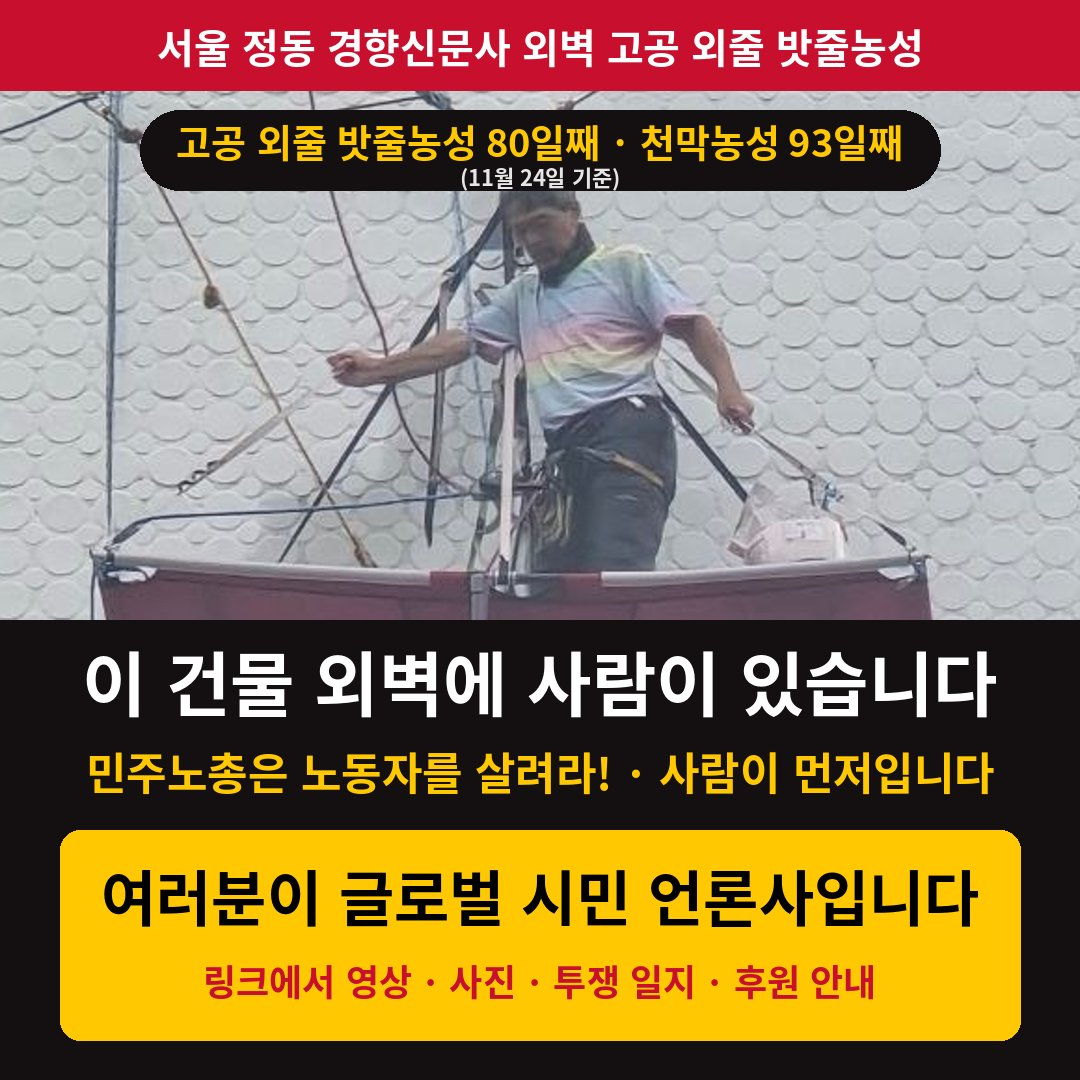
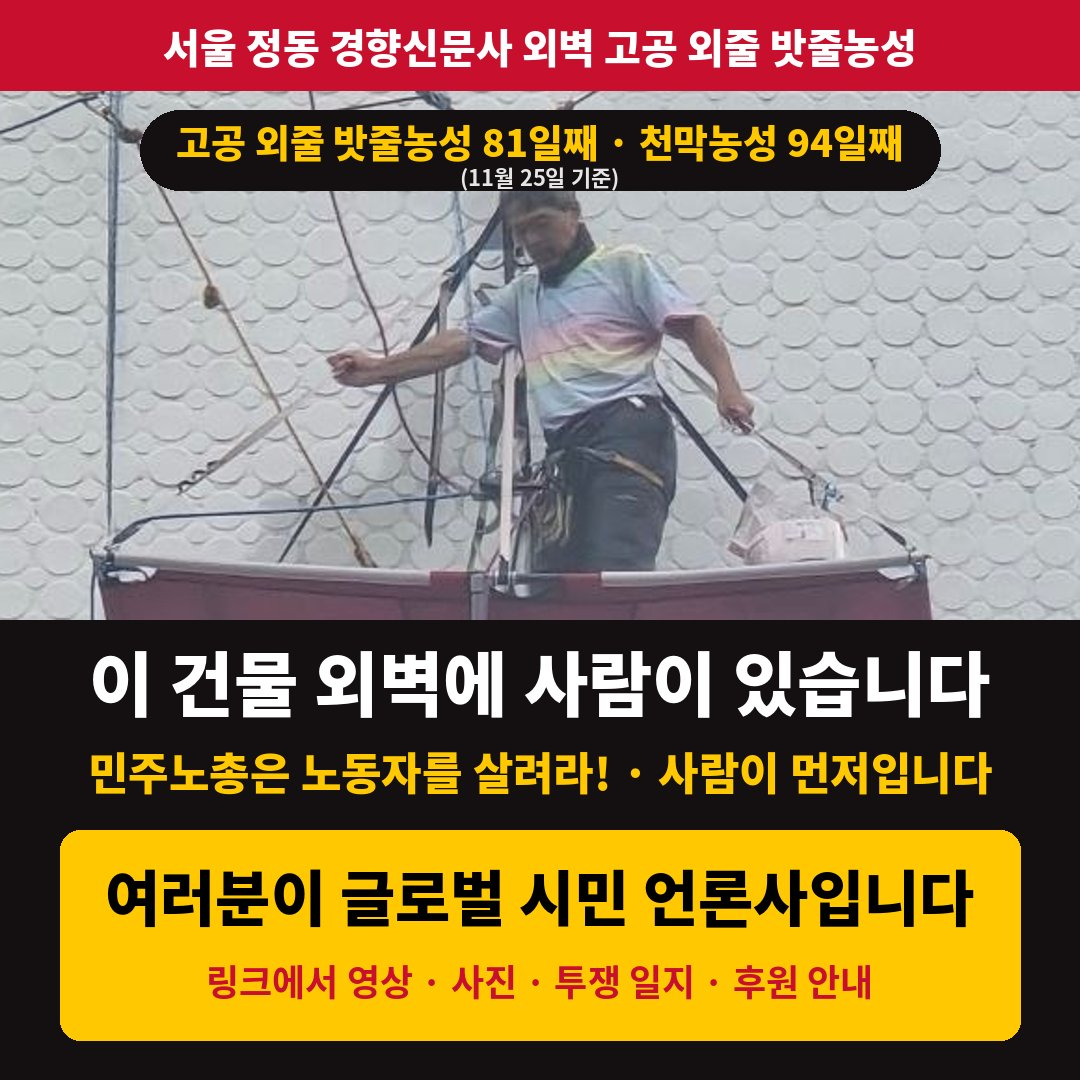
11.24 투쟁 일지 추가(시계탑 선전전·함계남 동지 글), 헤드라인·썸네일, 최종 업데이트 11.25 00:40
Claude-Session: https://claude.ai/code/session_01Tz8GkWFDL8twrCLq71htRW

diff --git a/index.html b/index.html
@@ -2,15 +2,15 @@
 <html lang="ko"><head><meta charset="utf-8">
 <title>이 건물 외벽에 사람이 있습니다 | 정동 고공 외줄 밧줄농성</title>
 <meta name="viewport" content="width=device-width,initial-scale=1,viewport-fit=cover">
-<meta name="description" content="[11.24 소식] (11.23) 오전 8시 서울고용노동청 앞 이ㅇㅇ 님 투쟁 연대 / 오후 2시 서울대병원 후문 긴급 기자회견 ‘노동조합 상근자는 노동자다. 근로기준법 적용하라!’(유상석, 이ㅇㅇ, 전태삼, 김ㅇㅇ, 김ㅇㅇ, 함계남, 이ㅇㅇ, 고ㅇㅇ, 박ㅇㅇ, 송ㅇㅇ): ‘사용자’ 민주노총 공공운수노조 의료연대본부 서울지부를 규탄하고 ‘비영리 5인 미만 사업장에 근로기준법을 당장 적용하라’고 요구했습니다. 이어 서울대병원 지하 1층 서울지부 사무실을 항의 방문했습니다. 인천 계양구 동지들이 기증한 투쟁 물품을 오늘 모두 썼습니다 / 보도: 법률닷컴, 국제뉴스, 울산함성 / 민주노총 비대위 홍ㅇㅇ 집행위원장의 요청으로 함계남 동지가 개별 면담을 했습니다. 함계남 동지는 노동조합이 마지막으로 제시한 ‘후속 조치는 결과에 따라 별도 논의한다’만으로는 받아들일 수 없다고 밝혔습니다. 그리고 합의사항 2 ‘총연맹은 산하·가맹조직에서 일하는 노동자들이 사업장 상시근로자 수와 관계없이 근로기준법에 준하는 보호를 받을 수 있도록 관련 규약·규정의 정비를 추진한다’를 당장 하라는 것도 아닌데 왜 받지 못하느냐고 물었습니다. 민주노총이 채용한 것이 아니라는 말에는 ‘민주노총 공공운수노조 의료연대본부 서울지부’로서 조합비가 총연맹까지 이어지는 구조라며, 그렇지 않다면 왜 민주노총이라고 하느냐고 되물었습니다. 공공운수노조가 받지 않는다는 말에는 이것이 민주노총의 사업이자 원칙인 만큼 잘 고민해 달라고 하고 면담을 마쳤습니다 / 어느 것 하나 녹록지 않지만, 꼭 넉넉하다고 잘되는 것은 아닙니다. 오늘도 서로에게 힘이 되어 주신 동지들께 감사드립니다. 푹 주무십시오. — 11월 23일 천막농성장에서 / 특종: 집단사직 종용 녹취록 공개 · 여러분이 글로벌 시민 언론사입니다">
+<meta name="description" content="[11.25 소식] (11.24) 오전 8시 서울고용노동청 앞 이ㅇㅇ 님 투쟁 연대 / 오후 2시 30분~5시 서울대병원 본원 시계탑 앞 ‘노사협의회’ 선전전(김ㅇㅇ, 전태삼, 김ㅇㅇ, 함계남): 그늘지고 바람이 센 시계탑 앞에서 발을 동동 구르며 몇 시간 동안 민주노총 의료연대본부 서울지부의 부당해고를 기자회견 형식으로 끝까지 알렸습니다. 유튜버에 행동요원 역할까지 해 주신 김ㅇㅇ 동지 덕분에 든든했습니다 / 함계남 동지의 글: “저는 4년 동안 민주노총 공공운수노조 의료연대본부 서울지부에서 급여를 받고 일하는 노동자였습니다. 세 가지 산재를 인정받았고, 5인 미만으로 떠밀려 표적 해고를 당했습니다. 그리고 배우자 양규서는 상급기관의 국장으로서 이 문제를 해결하기 위해 담쟁이처럼 경향신문 벽에 매달린 지 80일이 되었습니다. 제가 무엇을 잘못했을까요? 어떻게 해결할 수 있을까요? 바람이 불 때마다 한 시간 한 시간이 가슴을 쥐어짜는 날들입니다. 마음을 다잡습니다. 적어도 민주노총에서 일하다 해고당하는 일은 되돌려 놓겠습니다. 더 이상 민주노총에서 법적 대응마저 막아 버리는 파렴치한 해고는 없게 하겠습니다. 동지들의 힘을 믿고 나아가겠습니다. 오늘 함께해 주신 많은 동지들께 감사드립니다. 투쟁 승리!” — 11월 24일 천막농성장에서 / 특종: 집단사직 종용 녹취록 공개 · 여러분이 글로벌 시민 언론사입니다">
 <meta property="og:type" content="website">
 <meta property="og:site_name" content="정동 고공 외줄 밧줄농성">
 <meta property="og:title" content="이 건물 외벽에 사람이 있습니다 | 정동 고공 외줄 밧줄농성">
-<meta property="og:description" content="[11.24 소식] (11.23) 오전 8시 서울고용노동청 앞 이ㅇㅇ 님 투쟁 연대 / 오후 2시 서울대병원 후문 긴급 기자회견 ‘노동조합 상근자는 노동자다. 근로기준법 적용하라!’(유상석, 이ㅇㅇ, 전태삼, 김ㅇㅇ, 김ㅇㅇ, 함계남, 이ㅇㅇ, 고ㅇㅇ, 박ㅇㅇ, 송ㅇㅇ): ‘사용자’ 민주노총 공공운수노조 의료연대본부 서울지부를 규탄하고 ‘비영리 5인 미만 사업장에 근로기준법을 당장 적용하라’고 요구했습니다. 이어 서울대병원 지하 1층 서울지부 사무실을 항의 방문했습니다. 인천 계양구 동지들이 기증한 투쟁 물품을 오늘 모두 썼습니다 / 보도: 법률닷컴, 국제뉴스, 울산함성 / 민주노총 비대위 홍ㅇㅇ 집행위원장의 요청으로 함계남 동지가 개별 면담을 했습니다. 함계남 동지는 노동조합이 마지막으로 제시한 ‘후속 조치는 결과에 따라 별도 논의한다’만으로는 받아들일 수 없다고 밝혔습니다. 그리고 합의사항 2 ‘총연맹은 산하·가맹조직에서 일하는 노동자들이 사업장 상시근로자 수와 관계없이 근로기준법에 준하는 보호를 받을 수 있도록 관련 규약·규정의 정비를 추진한다’를 당장 하라는 것도 아닌데 왜 받지 못하느냐고 물었습니다. 민주노총이 채용한 것이 아니라는 말에는 ‘민주노총 공공운수노조 의료연대본부 서울지부’로서 조합비가 총연맹까지 이어지는 구조라며, 그렇지 않다면 왜 민주노총이라고 하느냐고 되물었습니다. 공공운수노조가 받지 않는다는 말에는 이것이 민주노총의 사업이자 원칙인 만큼 잘 고민해 달라고 하고 면담을 마쳤습니다 / 어느 것 하나 녹록지 않지만, 꼭 넉넉하다고 잘되는 것은 아닙니다. 오늘도 서로에게 힘이 되어 주신 동지들께 감사드립니다. 푹 주무십시오. — 11월 23일 천막농성장에서 / 특종: 집단사직 종용 녹취록 공개 · 여러분이 글로벌 시민 언론사입니다">
-<meta property="og:image" content="https://yky1234x.github.io/jeongdong/share.jpg?v=202611241107">
+<meta property="og:description" content="[11.25 소식] (11.24) 오전 8시 서울고용노동청 앞 이ㅇㅇ 님 투쟁 연대 / 오후 2시 30분~5시 서울대병원 본원 시계탑 앞 ‘노사협의회’ 선전전(김ㅇㅇ, 전태삼, 김ㅇㅇ, 함계남): 그늘지고 바람이 센 시계탑 앞에서 발을 동동 구르며 몇 시간 동안 민주노총 의료연대본부 서울지부의 부당해고를 기자회견 형식으로 끝까지 알렸습니다. 유튜버에 행동요원 역할까지 해 주신 김ㅇㅇ 동지 덕분에 든든했습니다 / 함계남 동지의 글: “저는 4년 동안 민주노총 공공운수노조 의료연대본부 서울지부에서 급여를 받고 일하는 노동자였습니다. 세 가지 산재를 인정받았고, 5인 미만으로 떠밀려 표적 해고를 당했습니다. 그리고 배우자 양규서는 상급기관의 국장으로서 이 문제를 해결하기 위해 담쟁이처럼 경향신문 벽에 매달린 지 80일이 되었습니다. 제가 무엇을 잘못했을까요? 어떻게 해결할 수 있을까요? 바람이 불 때마다 한 시간 한 시간이 가슴을 쥐어짜는 날들입니다. 마음을 다잡습니다. 적어도 민주노총에서 일하다 해고당하는 일은 되돌려 놓겠습니다. 더 이상 민주노총에서 법적 대응마저 막아 버리는 파렴치한 해고는 없게 하겠습니다. 동지들의 힘을 믿고 나아가겠습니다. 오늘 함께해 주신 많은 동지들께 감사드립니다. 투쟁 승리!” — 11월 24일 천막농성장에서 / 특종: 집단사직 종용 녹취록 공개 · 여러분이 글로벌 시민 언론사입니다">
+<meta property="og:image" content="https://yky1234x.github.io/jeongdong/share.jpg?v=202611250013">
 <meta property="og:image:width" content="1280"><meta property="og:image:height" content="720">
 <meta name="twitter:card" content="summary_large_image">
-<meta name="twitter:image" content="https://yky1234x.github.io/jeongdong/share.jpg?v=202611241107">
+<meta name="twitter:image" content="https://yky1234x.github.io/jeongdong/share.jpg?v=202611250013">
 <style>:root{color-scheme:light;padding-top:env(safe-area-inset-top,0px);padding-bottom:env(safe-area-inset-bottom,0px)}body{margin:0;font-family:system-ui,-apple-system,"Apple SD Gothic Neo","Malgun Gothic",sans-serif;font-size:14px}img{max-width:100%}[hidden]{display:none!important}</style>
 </head><body>
 <link rel="preconnect" href="https://fonts.googleapis.com">
@@ -195,7 +195,7 @@ footer strong{color:var(--fg);display:block;font-size:15px}
 <header class="band">
   <div class="wrap">
     <div class="loc" id="loc">서울 정동 경향신문사 외벽 고공 외줄 밧줄농성</div>
-    <div class="upd" data-upd>최종 업데이트 2026. 11. 24. 00:20</div>
+    <div class="upd" data-upd>최종 업데이트 2026. 11. 25. 00:40</div>
     <div class="langs" role="group" aria-label="Language">
       <button type="button" id="b-ko" data-l="ko" aria-pressed="true">한국어</button>
       <button type="button" id="b-en" data-l="en" aria-pressed="false">English</button>
@@ -341,7 +341,8 @@ footer strong{color:var(--fg);display:block;font-size:15px}
   }
   // 투쟁 일지: add one entry per event {d:"YYYY-MM-DD", ko, en, zh}
   var LOG=[
-    {d:"2026-11-23",ko:"오전 8시 서울고용노동청 앞 이ㅇㅇ 님 투쟁 연대 / 오후 2시 서울대병원 후문 긴급 기자회견 ‘노동조합 상근자는 노동자다. 근로기준법 적용하라!’(유상석, 이ㅇㅇ, 전태삼, 김ㅇㅇ, 김ㅇㅇ, 함계남, 이ㅇㅇ, 고ㅇㅇ, 박ㅇㅇ, 송ㅇㅇ): ‘사용자’ 민주노총 공공운수노조 의료연대본부 서울지부를 규탄하고 ‘비영리 5인 미만 사업장에 근로기준법을 당장 적용하라’고 요구했습니다. 이어 서울대병원 지하 1층 서울지부 사무실을 항의 방문했습니다. 인천 계양구 동지들이 기증한 투쟁 물품을 오늘 모두 썼습니다 / 보도: 법률닷컴, 국제뉴스, 울산함성 / 민주노총 비대위 홍ㅇㅇ 집행위원장의 요청으로 함계남 동지가 개별 면담을 했습니다. 함계남 동지는 노동조합이 마지막으로 제시한 ‘후속 조치는 결과에 따라 별도 논의한다’만으로는 받아들일 수 없다고 밝혔습니다. 그리고 합의사항 2 ‘총연맹은 산하·가맹조직에서 일하는 노동자들이 사업장 상시근로자 수와 관계없이 근로기준법에 준하는 보호를 받을 수 있도록 관련 규약·규정의 정비를 추진한다’를 당장 하라는 것도 아닌데 왜 받지 못하느냐고 물었습니다. 민주노총이 채용한 것이 아니라는 말에는 ‘민주노총 공공운수노조 의료연대본부 서울지부’로서 조합비가 총연맹까지 이어지는 구조라며, 그렇지 않다면 왜 민주노총이라고 하느냐고 되물었습니다. 공공운수노조가 받지 않는다는 말에는 이것이 민주노총의 사업이자 원칙인 만큼 잘 고민해 달라고 하고 면담을 마쳤습니다 / 어느 것 하나 녹록지 않지만, 꼭 넉넉하다고 잘되는 것은 아닙니다. 오늘도 서로에게 힘이 되어 주신 동지들께 감사드립니다. 푹 주무십시오. — 11월 23일 천막농성장에서",en:"8 a.m. solidarity with Lee OO’s struggle in front of the Seoul Regional Employment and Labor Office / 2 p.m. emergency press conference at the back gate of Seoul National University Hospital, “Union staff are workers. Apply the Labor Standards Act!” (Yoo Sang-seok, Ham Gye-nam, Jeon Tae-sam and seven others): we denounced the ‘employer’, the Seoul branch of the KPTU Medical Solidarity Division (KCTU), and demanded that the Labor Standards Act apply to small nonprofit workplaces now. Then a protest visit to the branch office on basement level 1 of the hospital. We used up all the supplies donated by comrades from Gyeyang-gu, Incheon / Covered by Lawdotcom, Gukje News and Ulsan Hamseong / At the request of Hong OO, executive chair of the KCTU emergency committee, Ham Gye-nam held a one-on-one meeting. She said the union’s final offer — ‘follow-up measures will be discussed separately depending on the outcome’ — is not acceptable on its own. She asked why the KCTU cannot accept agreement item 2, “The confederation will work to revise its rules so that people working for its affiliates receive protection equivalent to the Labor Standards Act regardless of workplace size,” when no one is even asking for it to take effect immediately. Told that the KCTU had not hired her, she replied that she worked for the KCTU-affiliated Seoul branch, whose members’ dues flow up to the confederation — otherwise, why call it the KCTU? Told that the KPTU refuses, she said this is the KCTU’s own program and principle, asked them to think it over carefully, and ended the meeting / Nothing is easy, but having plenty does not guarantee success either. Thank you, comrades, for being each other’s strength again today. Sleep well. — From the tent, November 23",zh:"上午8点 在首尔地方雇佣劳动厅前声援이ㅇㅇ的抗争 / 下午2点 首尔大学医院后门紧急记者会“工会专职人员也是劳动者，适用劳动基准法！”（유상석、Ham Gye-nam、全泰三等10人）：谴责“雇主”——民主劳总公共运输工会医疗联带本部首尔支部，要求“立即对非营利5人以下单位适用劳动基准法”。随后前往首尔大学医院地下1层首尔支部办公室抗议走访。仁川桂阳区同志们捐赠的抗争物品今天全部用上 / 报道：法律dotcom、国际新闻、蔚山喊声 / 应民主劳总非常对策委员会执行委员长홍ㅇㅇ的要求，Ham Gye-nam同志进行了单独面谈。她表示，工会最后提出的“后续措施根据结果另行讨论”本身无法接受，并质问：协议事项2“总联盟推动修订相关章程和规定，使在下属及加盟组织工作的劳动者无论单位常雇人数多少，都能获得相当于劳动基准法的保护”，又不是要求立刻实施，为什么不能接受？对方说她不是民主劳总雇用的，她回答说自己是“民主劳总公共运输工会医疗联带本部首尔支部”的员工，会员的会费一直流向总联盟，否则为什么叫民主劳总？对方说公共运输工会不接受，她表示这是民主劳总自己的事业和原则，请认真考虑，随后结束面谈 / 没有一件事是容易的，但宽裕也不一定就能成功。感谢今天也彼此给予力量的同志们。好好休息。——11月23日，于帐篷静坐现场",plan:{"ko": "▶ 11.24(화) 오후 2시 30분 서울대병원 본원 시계탑 앞 피켓팅·유인물 배포(오후 3시 시계탑 1회의실 ‘서울 4분기 조사협의회’ 대응) — 참석 확인: 함계남, 전태삼, 김ㅇㅇ, 김ㅇㅇ", "en": "▶ Tue, Nov 24, 2:30 p.m.: picketing and leafleting in front of the clock tower, SNU Hospital main campus, ahead of the Seoul Q4 council meeting at 3 p.m. in Clock Tower Meeting Room 1 — confirmed: Ham Gye-nam, Jeon Tae-sam and two others", "zh": "▶ 11月24日（周二）下午2点30分 首尔大学医院本院钟楼前举牌、发传单（针对下午3点在钟楼第1会议室举行的“首尔第四季度协议会”）——确认参加：Ham Gye-nam、全泰三等4人"},imgs:[["log_1123_3.jpg", {ko:"서울대병원 후문 기자회견: ‘노동조합 상근자는 노동자다. 근로기준법 적용하라!’",en:"Press conference at the SNU Hospital back gate: “Union staff are workers. Apply the Labor Standards Act!”",zh:"首尔大学医院后门记者会：“工会专职人员也是劳动者，适用劳动基准法！”"}], ["log_1123_4.jpg", {ko:"기자회견장 앞에 세운 피켓들",en:"Pickets set up at the press conference",zh:"记者会现场的标语牌"}], ["log_1123_1.jpg", {ko:"천막농성 92일·고공농성 79일 일수판(23일)",en:"Day board: tent 92, wall 79 (Nov 23)",zh:"天数牌：帐篷92天、高空79天（23日）"}], ["log_1123_2.jpg", {ko:"서울대병원 긴급 기자회견 뒤 지하 1층 서울지부 사무실 항의 방문",en:"After the press conference: protest visit to the Seoul branch office, basement level 1, SNU Hospital",zh:"记者会后抗议走访首尔大学医院地下1层首尔支部办公室"}]]},
+    {d:"2026-11-24",ko:"오전 8시 서울고용노동청 앞 이ㅇㅇ 님 투쟁 연대 / 오후 2시 30분~5시 서울대병원 본원 시계탑 앞 ‘노사협의회’ 선전전(김ㅇㅇ, 전태삼, 김ㅇㅇ, 함계남): 그늘지고 바람이 센 시계탑 앞에서 발을 동동 구르며 몇 시간 동안 민주노총 의료연대본부 서울지부의 부당해고를 기자회견 형식으로 끝까지 알렸습니다. 유튜버에 행동요원 역할까지 해 주신 김ㅇㅇ 동지 덕분에 든든했습니다 / 함계남 동지의 글: “저는 4년 동안 민주노총 공공운수노조 의료연대본부 서울지부에서 급여를 받고 일하는 노동자였습니다. 세 가지 산재를 인정받았고, 5인 미만으로 떠밀려 표적 해고를 당했습니다. 그리고 배우자 양규서는 상급기관의 국장으로서 이 문제를 해결하기 위해 담쟁이처럼 경향신문 벽에 매달린 지 80일이 되었습니다. 제가 무엇을 잘못했을까요? 어떻게 해결할 수 있을까요? 바람이 불 때마다 한 시간 한 시간이 가슴을 쥐어짜는 날들입니다. 마음을 다잡습니다. 적어도 민주노총에서 일하다 해고당하는 일은 되돌려 놓겠습니다. 더 이상 민주노총에서 법적 대응마저 막아 버리는 파렴치한 해고는 없게 하겠습니다. 동지들의 힘을 믿고 나아가겠습니다. 오늘 함께해 주신 많은 동지들께 감사드립니다. 투쟁 승리!” — 11월 24일 천막농성장에서",en:"8 a.m. solidarity with Lee OO’s struggle in front of the Seoul Regional Employment and Labor Office / 2:30–5 p.m. picket at the clock tower of SNU Hospital’s main campus during the labor-management council meeting (Jeon Tae-sam, Ham Gye-nam and two others): in the shade and a biting wind, stamping our feet for hours, we spoke out to the end, press-conference style, against the unfair dismissal by the KCTU Medical Solidarity Seoul branch. Thanks to Kim OO, who served as both YouTuber and action team / From Ham Gye-nam: “For four years I was a paid worker at the Seoul branch of the KPTU Medical Solidarity Division of the KCTU. I was recognized for three occupational injuries, then pushed into the ‘under five employees’ category and dismissed as a target. And my husband Yang Gyu-seo, a director at the higher-level union, has now hung on the wall of the Kyunghyang building like ivy for 80 days to resolve this. What did I do wrong? How can this be resolved? Every gust of wind makes each hour wring my heart. I steel myself. At the very least, I will undo dismissals of people who work for the KCTU. I will make sure there are no more shameless dismissals in the KCTU that even block legal remedies. I go forward trusting in your strength. Thank you to all the comrades who were with us today. Victory to the struggle!” — From the tent, November 24",zh:"上午8点 在首尔地方雇佣劳动厅前声援이ㅇㅇ的抗争 / 下午2点30分至5点 在首尔大学医院本院钟楼前针对“劳资协议会”开展宣传（全泰三、Ham Gye-nam等4人）：钟楼前背阴、风大，大家跺着脚坚持了几个小时，以记者会形式把民主劳总医疗联带首尔支部的不当解雇讲到最后。感谢身兼YouTuber和行动队员的김ㅇㅇ同志 / Ham Gye-nam同志的话：“我曾在民主劳总公共运输工会医疗联带本部首尔支部领工资工作了4年。我获得了三项工伤认定，却被推入‘5人以下’范畴，遭到针对性解雇。我的丈夫양규서作为上级组织的局长，为解决这个问题，像爬山虎一样挂在京乡新闻大楼外墙上已经80天了。我做错了什么？该怎么解决？每当刮风，每一个小时都揪着心。我重新振作：至少要让在民主劳总工作却被解雇的事情得到纠正，绝不让民主劳总再发生连法律救济都要阻挡的无耻解雇。我相信同志们的力量，继续前进。感谢今天一起来的同志们。斗争胜利！”——11月24日，于帐篷静坐现场",plan:{"ko": "▶ 11.25(수) 오전 11시 30분~오후 1시 서울대병원 CJ홀 조합원 간담회 선전전 · 돌풍이 불고 날씨가 추워지고 있습니다", "en": "▶ Wed, Nov 25, 11:30 a.m.–1 p.m.: picket at the union members’ meeting, CJ Hall, SNU Hospital · Gusty winds and colder weather ahead", "zh": "▶ 11月25日（周三）上午11点30分至下午1点 首尔大学医院CJ厅会员座谈会宣传 · 阵风增强，天气转冷"}},
+    {d:"2026-11-23",ko:"오전 8시 서울고용노동청 앞 이ㅇㅇ 님 투쟁 연대 / 오후 2시 서울대병원 후문 긴급 기자회견 ‘노동조합 상근자는 노동자다. 근로기준법 적용하라!’(유상석, 이ㅇㅇ, 전태삼, 김ㅇㅇ, 김ㅇㅇ, 함계남, 이ㅇㅇ, 고ㅇㅇ, 박ㅇㅇ, 송ㅇㅇ): ‘사용자’ 민주노총 공공운수노조 의료연대본부 서울지부를 규탄하고 ‘비영리 5인 미만 사업장에 근로기준법을 당장 적용하라’고 요구했습니다. 이어 서울대병원 지하 1층 서울지부 사무실을 항의 방문했습니다. 인천 계양구 동지들이 기증한 투쟁 물품을 오늘 모두 썼습니다 / 보도: 법률닷컴, 국제뉴스, 울산함성 / 민주노총 비대위 홍ㅇㅇ 집행위원장의 요청으로 함계남 동지가 개별 면담을 했습니다. 함계남 동지는 노동조합이 마지막으로 제시한 ‘후속 조치는 결과에 따라 별도 논의한다’만으로는 받아들일 수 없다고 밝혔습니다. 그리고 합의사항 2 ‘총연맹은 산하·가맹조직에서 일하는 노동자들이 사업장 상시근로자 수와 관계없이 근로기준법에 준하는 보호를 받을 수 있도록 관련 규약·규정의 정비를 추진한다’를 당장 하라는 것도 아닌데 왜 받지 못하느냐고 물었습니다. 민주노총이 채용한 것이 아니라는 말에는 ‘민주노총 공공운수노조 의료연대본부 서울지부’로서 조합비가 총연맹까지 이어지는 구조라며, 그렇지 않다면 왜 민주노총이라고 하느냐고 되물었습니다. 공공운수노조가 받지 않는다는 말에는 이것이 민주노총의 사업이자 원칙인 만큼 잘 고민해 달라고 하고 면담을 마쳤습니다 / 어느 것 하나 녹록지 않지만, 꼭 넉넉하다고 잘되는 것은 아닙니다. 오늘도 서로에게 힘이 되어 주신 동지들께 감사드립니다. 푹 주무십시오. — 11월 23일 천막농성장에서",en:"8 a.m. solidarity with Lee OO’s struggle in front of the Seoul Regional Employment and Labor Office / 2 p.m. emergency press conference at the back gate of Seoul National University Hospital, “Union staff are workers. Apply the Labor Standards Act!” (Yoo Sang-seok, Ham Gye-nam, Jeon Tae-sam and seven others): we denounced the ‘employer’, the Seoul branch of the KPTU Medical Solidarity Division (KCTU), and demanded that the Labor Standards Act apply to small nonprofit workplaces now. Then a protest visit to the branch office on basement level 1 of the hospital. We used up all the supplies donated by comrades from Gyeyang-gu, Incheon / Covered by Lawdotcom, Gukje News and Ulsan Hamseong / At the request of Hong OO, executive chair of the KCTU emergency committee, Ham Gye-nam held a one-on-one meeting. She said the union’s final offer — ‘follow-up measures will be discussed separately depending on the outcome’ — is not acceptable on its own. She asked why the KCTU cannot accept agreement item 2, “The confederation will work to revise its rules so that people working for its affiliates receive protection equivalent to the Labor Standards Act regardless of workplace size,” when no one is even asking for it to take effect immediately. Told that the KCTU had not hired her, she replied that she worked for the KCTU-affiliated Seoul branch, whose members’ dues flow up to the confederation — otherwise, why call it the KCTU? Told that the KPTU refuses, she said this is the KCTU’s own program and principle, asked them to think it over carefully, and ended the meeting / Nothing is easy, but having plenty does not guarantee success either. Thank you, comrades, for being each other’s strength again today. Sleep well. — From the tent, November 23",zh:"上午8点 在首尔地方雇佣劳动厅前声援이ㅇㅇ的抗争 / 下午2点 首尔大学医院后门紧急记者会“工会专职人员也是劳动者，适用劳动基准法！”（유상석、Ham Gye-nam、全泰三等10人）：谴责“雇主”——民主劳总公共运输工会医疗联带本部首尔支部，要求“立即对非营利5人以下单位适用劳动基准法”。随后前往首尔大学医院地下1层首尔支部办公室抗议走访。仁川桂阳区同志们捐赠的抗争物品今天全部用上 / 报道：法律dotcom、国际新闻、蔚山喊声 / 应民主劳总非常对策委员会执行委员长홍ㅇㅇ的要求，Ham Gye-nam同志进行了单独面谈。她表示，工会最后提出的“后续措施根据结果另行讨论”本身无法接受，并质问：协议事项2“总联盟推动修订相关章程和规定，使在下属及加盟组织工作的劳动者无论单位常雇人数多少，都能获得相当于劳动基准法的保护”，又不是要求立刻实施，为什么不能接受？对方说她不是民主劳总雇用的，她回答说自己是“民主劳总公共运输工会医疗联带本部首尔支部”的员工，会员的会费一直流向总联盟，否则为什么叫民主劳总？对方说公共运输工会不接受，她表示这是民主劳总自己的事业和原则，请认真考虑，随后结束面谈 / 没有一件事是容易的，但宽裕也不一定就能成功。感谢今天也彼此给予力量的同志们。好好休息。——11月23日，于帐篷静坐现场",plan:{"ko": "▶ 11.24(화) 오후 2시 30분 서울대병원 본원 시계탑 앞 피켓팅·유인물 배포(오후 3시 시계탑 1회의실 ‘서울 4분기 노사협의회’ 대응) — 참석 확인: 함계남, 전태삼, 김ㅇㅇ, 김ㅇㅇ", "en": "▶ Tue, Nov 24, 2:30 p.m.: picketing and leafleting in front of the clock tower, SNU Hospital main campus, ahead of the Seoul Q4 labor-management council meeting at 3 p.m. in Clock Tower Meeting Room 1 — confirmed: Ham Gye-nam, Jeon Tae-sam and two others", "zh": "▶ 11月24日（周二）下午2点30分 首尔大学医院本院钟楼前举牌、发传单（针对下午3点在钟楼第1会议室举行的“首尔第四季度劳资协议会”）——确认参加：Ham Gye-nam、全泰三等4人"},imgs:[["log_1123_3.jpg", {ko:"서울대병원 후문 기자회견: ‘노동조합 상근자는 노동자다. 근로기준법 적용하라!’",en:"Press conference at the SNU Hospital back gate: “Union staff are workers. Apply the Labor Standards Act!”",zh:"首尔大学医院后门记者会：“工会专职人员也是劳动者，适用劳动基准法！”"}], ["log_1123_4.jpg", {ko:"기자회견장 앞에 세운 피켓들",en:"Pickets set up at the press conference",zh:"记者会现场的标语牌"}], ["log_1123_1.jpg", {ko:"천막농성 92일·고공농성 79일 일수판(23일)",en:"Day board: tent 92, wall 79 (Nov 23)",zh:"天数牌：帐篷92天、高空79天（23日）"}], ["log_1123_2.jpg", {ko:"서울대병원 긴급 기자회견 뒤 지하 1층 서울지부 사무실 항의 방문",en:"After the press conference: protest visit to the Seoul branch office, basement level 1, SNU Hospital",zh:"记者会后抗议走访首尔大学医院地下1层首尔支部办公室"}]]},
     {d:"2026-11-22",ko:"비닐로 동여맨 천막을 지키며 23일 기자회견 준비 / 공대위 입장: 비영리 사업장엔 ‘경영상 이유’가 없습니다. 정리해고도 노조와 협의 절차를 거쳐야 하는데, 5인 미만은 그 절차조차 없이 해고됩니다. 민주노총·한국노총부터 근로기준법을 지켜야 합니다. 비영리 5인 미만 사업장에 근로기준법을 당장 적용하라!",en:"Guarding the plastic-wrapped tent and preparing for the Nov 23 press conference / Joint committee: nonprofits have no ‘business reasons’ for dismissal. Even layoffs require consulting the union, yet at workplaces with fewer than five employees people are dismissed without even that step. The KCTU and FKTU should be the first to honor the Labor Standards Act. Apply it to small nonprofit workplaces now!",zh:"守护着用塑料布捆好的帐篷，准备23日记者会 / 共同对策委员会：非营利单位不存在“经营上的理由”。连整理解雇都须与工会协商，而5人以下单位连这一程序都没有就解雇。民主劳总、韩国劳总应率先遵守劳动基准法。立即对非营利5人以下单位适用劳动基准法！",plan:{ko:"▶ 11.23(월) 오후 2시 서울대병원 긴급 기자회견, 이어 지하 1층 서울지부 항의 방문",en:"▶ Mon, Nov 23, 2 p.m.: emergency press conference at Seoul National University Hospital, followed by a protest visit to the Seoul branch office on basement level 1",zh:"▶ 11月23日（周一）下午2点 首尔大学医院紧急记者会，随后抗议走访地下1层首尔支部"},imgs:[["log_1122_1.jpg", {ko:"밤의 천막농성장: 천막농성 91일·고공농성 78일 일수판(22일)",en:"The tent at night: day board, tent 91, wall 78 (Nov 22)",zh:"夜晚的帐篷：天数牌 帐篷91天、高空78天（22日）"}]]},
     {d:"2026-11-21",ko:"오후 2시 여의도 국회의사당 앞 ‘일제강제동원 피해자 문제 해결 촉구 100만인 서명운동’ 공대위 연대(김ㅇㅇ, 전태삼, 송ㅇㅇ, 함계남) / 외벽 고공농성 밥올림(이ㅇㅇ, 류승완) / 저녁 7시 정기모임(이ㅇㅇ, 송ㅇㅇ, 전태삼, 김ㅇㅇ, 함계남, 이ㅇㅇ, 김ㅇㅇ): 모임 전 인천 계양구에서 투쟁 중인 김ㅇㅇ·임ㅇㅇ 부부(윤석열 퇴진 촛불 이후 공대위 문화제에 함께해 온 분들)가 찾아와 투쟁 상황을 나누고 소형 충전등 3개, 손난로 20개, 피켓 9장, 깃발(소 2장·대 1장)과 깃대를 기증해 주셨습니다 / 안건 1. 23일 서울대병원 기자회견: 사회 유상석, 참석자 모두 발언. 현수막·피켓·전단지·앰프를 준비하고, 회견 뒤 기자회견문과 언론 보도 내용을 정리합니다. 현재 참석 확인 8명(유상석, 함계남, 전태삼 외 5명) / 안건 2. 교섭 대응: 교섭에서는 허를 찌르는 발언과 ‘절대 물러서지 않겠구나’ 하는 강한 느낌을 줘야 한다는 데 뜻을 모았습니다. 외벽의 양규서 동지는 “민주노총에서 비영리 5인 미만 사업장에 대해 해고하는 일이 없도록 반드시 합의해야 내려올 수 있다”고 밝혔습니다. 월요일 기자회견 뒤 교섭 대응과 투쟁 계획·일정을 다시 논의합니다 / 겨울로 들어선 날씨입니다. 조합원들과 투쟁하다 모두 힘들어할 때면 “8부 능선을 올랐으니 조금만 더 가서 정상에서 좋은 경치 보고 내려가자”며 분위기를 바꾸던 기억이 납니다. 가장 적은 인원으로 가장 센 힘을 지닌 우리가 이기지 못할 이유가 무엇이겠습니까. 세상을 바꾸려 첫발을 내딛는 신입 조합원의 눈으로, ‘적어도 민주노총이 이래서는 안 된다’는 시민의 눈으로 한 걸음을 내디뎌야 할 때입니다. 승리하고 내려오는 날, 장수회관 할머니가 파티를 열어 주신다고 합니다. — 11월 21일 천막농성장에서",en:"2 p.m. joint-committee solidarity with the million-signature campaign to resolve the issue of victims of Japanese forced mobilization, in front of the National Assembly, Yeouido (Kim OO, Jeon Tae-sam, Song OO, Ham Gye-nam) / Meals sent up to the wall sit-in (Lee OO, Ryu Seung-wan) / 7 p.m. regular meeting (seven members): before the meeting, Kim OO and Lim OO, a couple waging their own struggle in Gyeyang-gu, Incheon, who have joined the joint committee’s cultural rallies since the candlelight protests, shared their situation and donated 3 small rechargeable lights, 20 hand warmers, 9 pickets, three flags (two small, one large) and a pole / Item 1, Monday’s press conference at Seoul National University Hospital: Yoo Sang-seok will chair and every participant will speak. Banners, pickets, leaflets and an amplifier are ready; afterwards we will compile the statement and the press coverage. Eight people have confirmed so far (Yoo Sang-seok, Ham Gye-nam, Jeon Tae-sam and five others) / Item 2, negotiations: we agreed that at the table we must make pointed remarks that cut to the heart of the matter and leave no doubt that we will never back down. Yang Gyu-seo, on the wall, said, “I can come down only when the KCTU firmly agrees that no one at its nonprofit workplaces with fewer than five employees will be dismissed.” Negotiation strategy, plans and schedule will be discussed again after Monday’s press conference / Winter has arrived. In past struggles, when members grew tired, I used to lift the mood by saying, “We have climbed past the last ridge; just a little further, and we can enjoy the view from the summit before we head down.” With the fewest people and the strongest resolve, what reason could there be that we cannot win? It is time to take the next step through the eyes of a new union member taking a first step to change the world, and of citizens who say the KCTU, at the very least, should not act like this. On the day we come down in victory, the grandmother at Jangsu Hall has promised to throw a party. — From the tent, November 21",zh:"下午2点 汝矣岛国会议事堂前，共同对策委员会声援“敦促解决日本强征劳工受害者问题百万人签名运动”（김ㅇㅇ、全泰三、송ㅇㅇ、Ham Gye-nam） / 为外墙高空静坐送饭（이ㅇㅇ、柳承完） / 晚上7点例会（7人参加）：会前，在仁川桂阳区进行抗争、自烛光集会以来一直参加共同对策委员会文化祭的김ㅇㅇ、임ㅇㅇ夫妇前来分享抗争情况，并捐赠小型充电灯3个、暖手宝20个、标语牌9块、旗帜3面（小2面、大1面）和旗杆 / 议题1：23日首尔大学医院记者会，由유상석（Yoo Sang-seok）主持，所有参加者发言；准备横幅、标语牌、传单和扩音器，会后整理记者会声明和媒体报道。目前确认参加8人（유상석、Ham Gye-nam、全泰三等） / 议题2：交涉应对。大家一致认为，交涉时要说出一针见血的话，让对方强烈感到“我们绝不会退让”。外墙上的Yang Gyu-seo同志表示：“只有民主劳总明确承诺，其非营利5人以下单位不再解雇任何人，我才能下来。”周一记者会后将重新讨论交涉应对、斗争计划和日程 / 天气已进入冬天。想起过去和会员们一起斗争、大家疲惫时，我常说“已经爬过八成山脊，再走一点就能登顶看美景再下山”，以此转换气氛。人数最少、力量最强的我们，有什么理由赢不了？现在是时候用想要改变世界、迈出第一步的新会员的眼光，用“民主劳总至少不该这样”的市民的眼光，迈出一步了。胜利下来的那天，长寿会馆的奶奶说要为我们开派对。——11月21日，于帐篷静坐现场",plan:{ko:"▶ 11.23(월) 오후 2시 서울대병원(혜화역 3번 출구, 1시 30분 집결) ‘사용자 민주노총 공공운수노조 의료연대본부 서울지부 규탄 기자회견’ — 사회 유상석, 참석자 모두 발언",en:"▶ Mon, Nov 23: 2 p.m. press conference at Seoul National University Hospital (Hyehwa Station exit 3; gather at 1:30 p.m.) denouncing the employer, the Seoul branch of the KPTU Medical Solidarity Division (KCTU) — chaired by Yoo Sang-seok, with every participant speaking",zh:"▶ 11月23日（周一）下午2点 首尔大学医院（惠化站3号出口，1点30分集合）“谴责雇主——民主劳总公共运输工会医疗联带本部首尔支部”记者会——由유상석（Yoo Sang-seok）主持，所有参加者发言"},imgs:[["log_1121_1.jpg", {ko: "비닐로 감싼 천막농성장과 천막농성 91일·고공농성 78일 일수판(22일 아침)", en: "The plastic-wrapped tent and day board: tent 91, wall 78 (morning of Nov 22)", zh: "包着塑料布的帐篷与天数牌：帐篷91天、高空78天（22日早晨）"}], ["log_1121_2.jpg", {ko: "여의도 국회의사당 앞 연대 집회 현장", en: "The solidarity rally in front of the National Assembly, Yeouido", zh: "汝矣岛国会议事堂前的声援集会现场"}], ["log_1121_3.jpg", {ko: "천막농성장에서 ‘집단사직종용 해고는 살인이다’ 피켓을 든 모습", en: "In the tent, holding the picket “Dismissal by collective pressure to resign is murder”", zh: "在帐篷里举着“集体逼辞的解雇就是杀人”标语牌"}]]},
     {d:"2026-11-20",ko:"오전 8시 서울고용노동청 앞 연대(함계남) / 오전 11시 긴급 대책위 회의(류승완, 유상석, 김ㅇㅇ, 이ㅇㅇ, 함계남) / 11시 40분경 총연맹 대협실장에게서 ‘진상규명위원회 결과에 따라 후속조치를 협의한다’는 문구가 추가된 제안이 왔습니다 / 오후 2시 13층 면담(사측: 대협실장·조직실장, 공대위: 류승완 대표 등 5명): 모든 것을 내려놓고 진상규명위원회와 5인 미만 문제, 두 개의 합의안을 제시한 이유를 자료(산재 승인서, 직장 내 괴롭힘 진정 서류, 수당 지급요청 내용증명, 2019~2022 투쟁 사진 등)와 함께 설명했습니다. 사측은 5인 미만 문제는 진상규명위 조사를 거쳐 권고·조직 징계 등 후속조치로 하면 된다고 했습니다. 함계남 동지는 과거 규율위원회에 직장 내 괴롭힘을 진정했지만 아무 조치가 없었다고 지적했고, 류승완 대표는 노동조합 규칙에 따른 실효성 있는 조사와 후속조치 방안이 있는지 물었습니다. 이후 노동조합 규칙을 전달받았고, 함계남 동지는 면담 자료를 집행위원장과 비상대책위원장에게 공유해 달라고 요청했습니다 / 바람 불고 추운 오늘도 천막에 와서 할 일을 찾아 주신 동지들, 모두 애쓰셨습니다.",img:"log_1120_1.jpg",ia:{ko:"비닐로 감싸고 끈으로 묶은 천막농성장, 천막농성 89일·고공농성 76일 일수판",en:"The plastic-wrapped tent with the day board: tent 89, wall 76",zh:"盖着塑料布、用绳子捆紧的帐篷和天数牌：帐篷89天、高空76天"},en:"8 a.m. solidarity in front of the Seoul Regional Employment and Labor Office (Ham Gye-nam) / 11 a.m. emergency committee meeting (Ryu Seung-wan, Yoo Sang-seok, Kim OO, Lee OO, Ham Gye-nam) / Around 11:40 a.m. the KCTU confederation’s external-affairs director sent a proposal with an added line: “follow-up measures will be discussed based on the fact-finding committee’s results” / 2 p.m. meeting on the 13th floor (KCTU: external-affairs and organizing directors; joint committee: chair Ryu Seung-wan and four others). We explained, with documents (industrial-accident approvals, the workplace-harassment complaint, a certified demand for unpaid allowances, photos of the 2019–2022 struggles and more), why we set everything else aside and proposed two agreements: a fact-finding committee and the under-five-employees issue. The KCTU side said the under-five issue can go through the fact-finding committee’s investigation, followed by recommendations or organizational discipline. Ham Gye-nam pointed out that she had once reported workplace harassment to the disciplinary committee and nothing was done; chair Ryu asked whether there is any effective way to investigate and follow up under the union’s rules. We later received the union rules, and Ham Gye-nam asked that the documents be shared with the executive chair and the emergency committee chair / To the comrades who came to the tent again on this cold, windy day looking for something to help with — thank you.",zh:"上午8点在首尔地方雇佣劳动厅前声援（Ham Gye-nam） / 上午11点召开紧急对策委员会会议（柳承完、유상석（Yoo Sang-seok）、김ㅇㅇ、이ㅇㅇ、Ham Gye-nam） / 11点40分左右，民主劳总总联盟对外协力室长发来提案，其中增加了“根据真相调查委员会的结果协商后续措施”的文字 / 下午2点在13楼面谈（资方：对外协力室长、组织室长；共同对策委员会：柳承完代表等5人）：我们附上材料（工伤认定书、职场欺凌申诉材料、要求支付津贴的内容证明、2019–2022年斗争照片等），说明了为何放下一切，提出真相调查委员会和5人以下单位问题两项协议方案。资方表示，5人以下问题可经真相调查委员会调查后，以劝告、组织处分等后续措施处理。Ham Gye-nam指出，她过去曾向纪律委员会申诉职场欺凌，却没有任何处理；柳承完代表询问是否有依据工会规则进行有效调查和后续处理的方案。之后我们收到了工会规则，Ham Gye-nam要求把面谈材料转交给执行委员长和紧急对策委员长 / 今天风大天冷，仍来到帐篷寻找能帮上忙的事的同志们，辛苦了。",plan:{ko:"▶ 11.21(토) 오후 2시 여의도 국회의사당 앞 ‘일제강제동원 피해자 문제 해결 촉구 100만인 서명운동’ 공대위 연대 / 오후 7시 천막에서 공대위 정기모임 ▶ 11.23(월) 오후 2시 서울대병원(혜화역 3번 출구) ‘사용자 민주노총 공공운수노조 의료연대본부 서울지부 규탄 기자회견’",en:"▶ Sat, Nov 21: 2 p.m. joint-committee solidarity with the million-signature campaign to resolve the issue of victims of Japanese forced mobilization, in front of the National Assembly, Yeouido / 7 p.m. regular joint-committee meeting at the tent ▶ Mon, Nov 23: 2 p.m. press conference at Seoul National University Hospital (Hyehwa Station exit 3) denouncing the employer, the Seoul branch of the KPTU Medical Solidarity Division (KCTU)",zh:"▶ 11月21日（周六）下午2点 汝矣岛国会议事堂前，声援“敦促解决日本强征劳工受害者问题百万人签名运动” / 晚上7点 在帐篷举行共同对策委员会例会 ▶ 11月23日（周一）下午2点 首尔大学医院（惠化站3号出口）“谴责雇主——民主劳总公共运输工会医疗联帯本部首尔支部”记者会"}},
